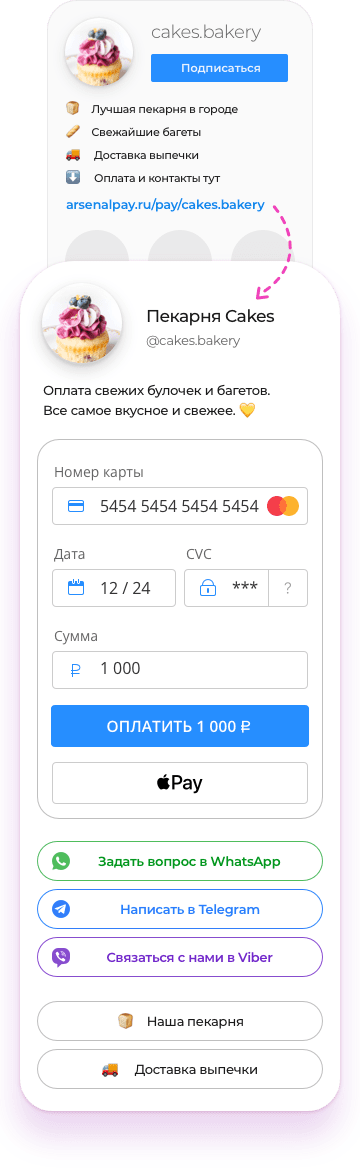
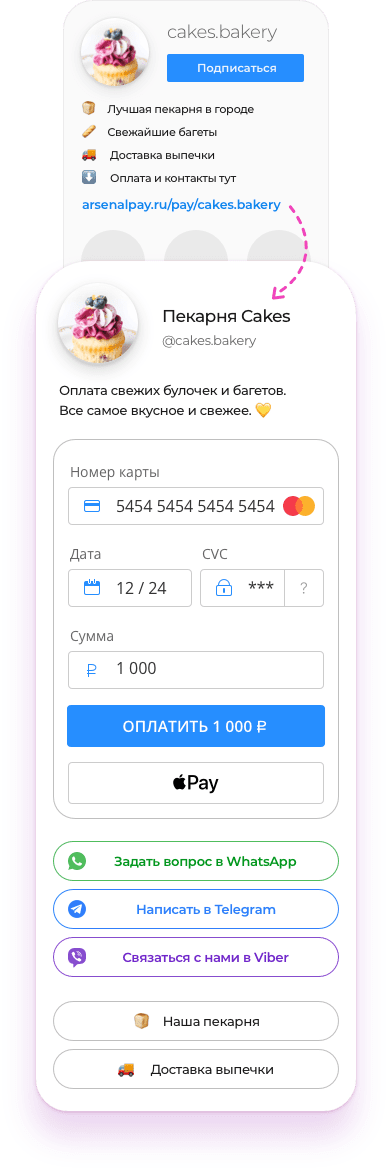
hot fix

diff --git a/src/assets/scss/components/_widget-box.scss b/src/assets/scss/components/_widget-box.scss
@@ -287,9 +287,10 @@
 
     .widget-box--instagram & {
       position: absolute;
+      transform: translateX(-2px);
       margin-bottom: 60px;
       //max-width: 384px;
-      width: 360px;
+      width: 388px;
       height: var(--widget-instagram-height--xs);
       align-self: center;
       background-color: transparent;
@@ -297,7 +298,6 @@
 
       @include media-breakpoint-up(sm) {
         margin-bottom: 97px;
-        width: 388px;
       }
 
       @include media-breakpoint-up(lg) {
@@ -305,6 +305,7 @@
         top: 0;
         left: 0;
         height: 934px;
+        transform: none;
       }
 
       @include media-breakpoint-up(xl) {

diff --git a/src/pages/priem-platezhej-v-instagram.html b/src/pages/priem-platezhej-v-instagram.html
@@ -42,7 +42,7 @@ footerLink: "https://arsenalpay.ru/dashboard/quickstart?step=1"
     <a href="https://arsenalpay.ru/dashboard/quickstart?step=1" class="page-section__btn">Подключить</a>
     <div class="widget-box widget-box--instagram">
       <div class="widget-box__widget">
-        {{{ img className="widget-box--instagram-img" name="widget-instagram" breakpoints='{"xs": "true", "sm": true, "xl": true}'}}}
+        {{{ img className="widget-box--instagram-img" name="widget-instagram" breakpoints='{"xs": "true", "xl": true}'}}}
       </div>
       <div class="widget-box__content">
         {{{ info-box
